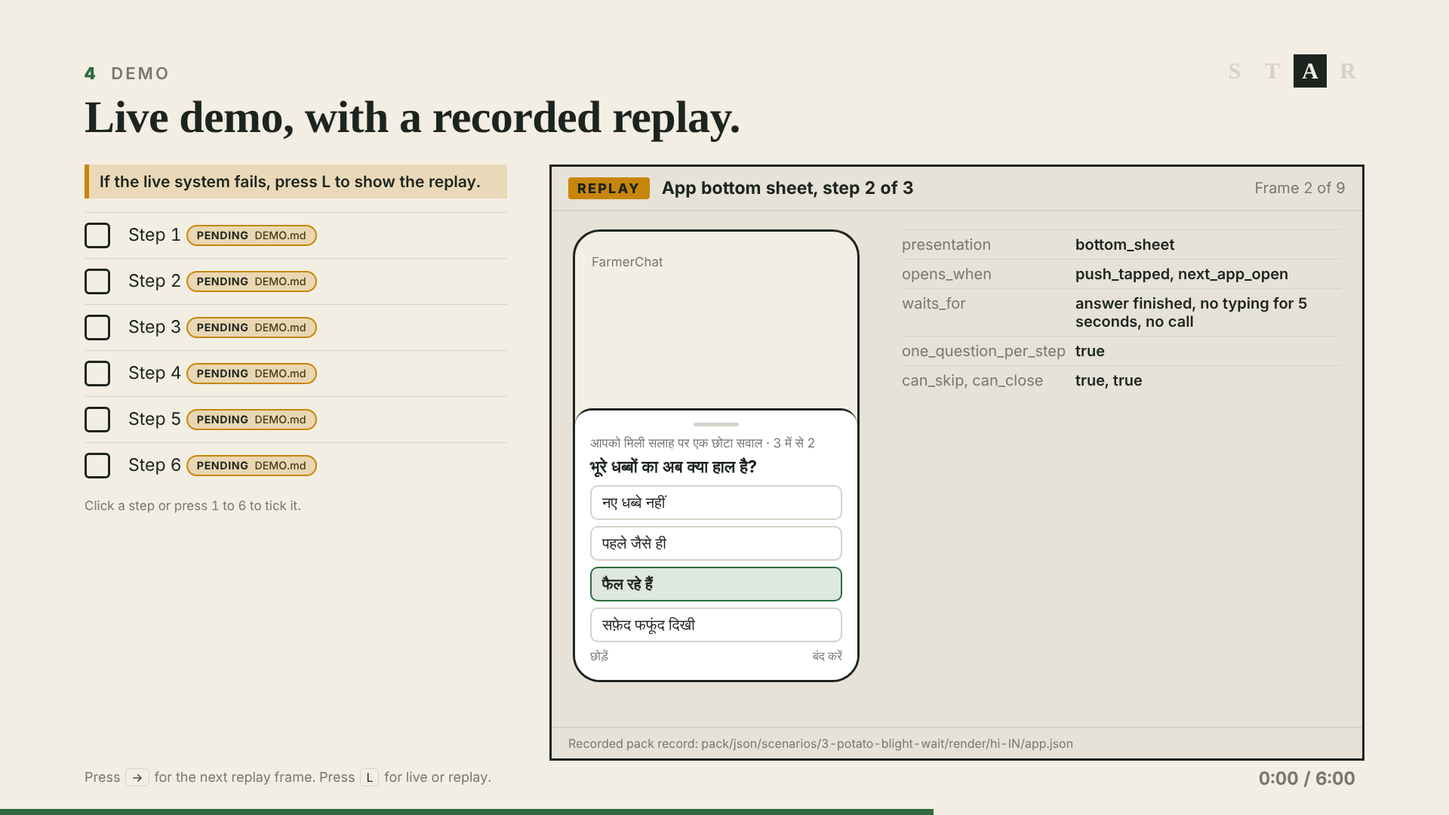
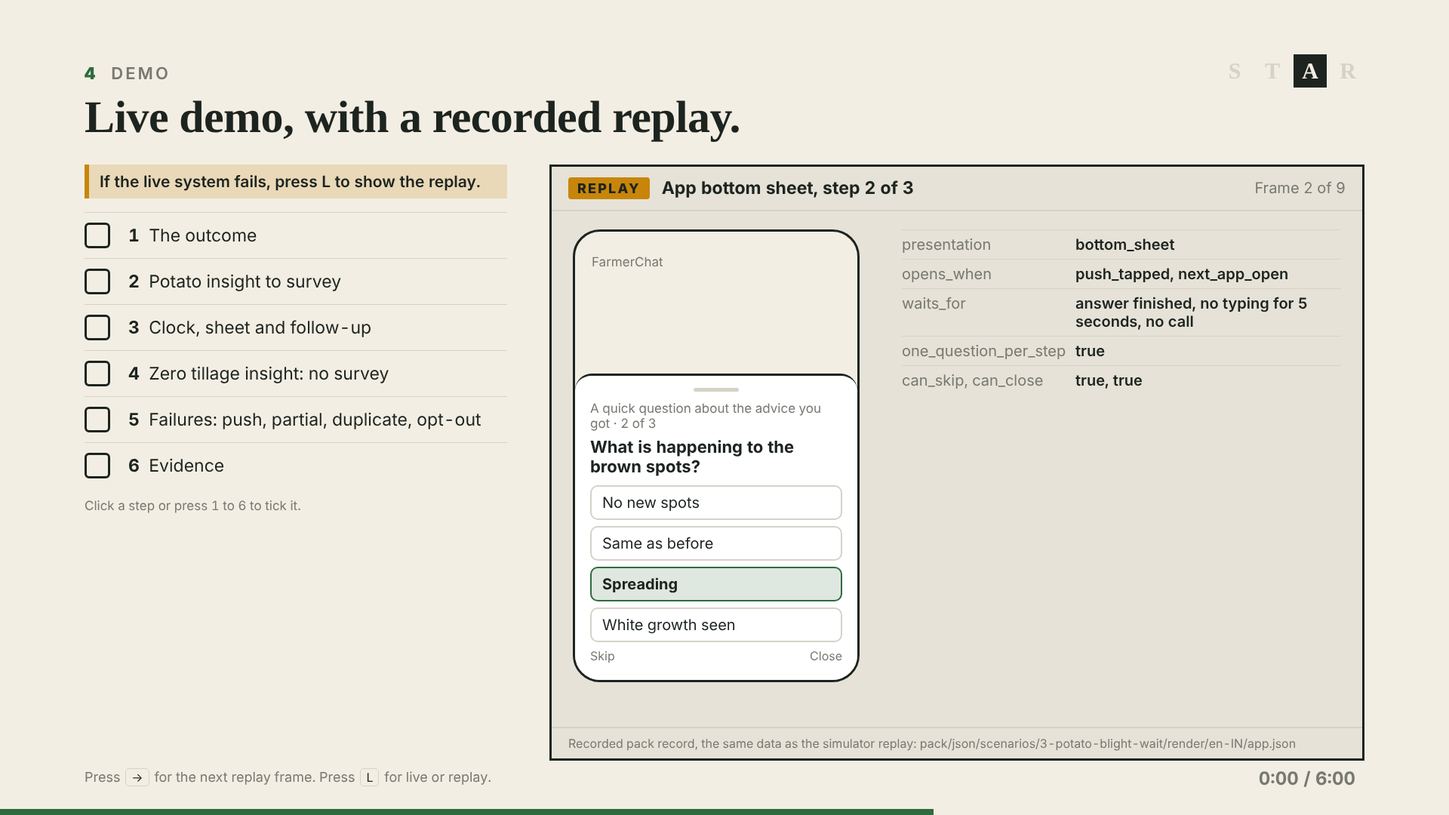
Refresh pitch deck with evidence report, review, demo script and infra
Fill the slide 5 tiles from evidence/REPORT.md, the demo checklist from
DEMO.md, the simulator URL and CloudFront from infra/INFRA.md, and the
review count from REVIEW.md. Drop AWS Budgets, which was not deployed.

Claude-Session: https://claude.ai/code/session_01Cnzru5pCMBT4YPL5fzyRAG

diff --git a/deck/index.html b/deck/index.html
@@ -225,7 +225,7 @@ table.why th{border-top:1.5px solid var(--faint)}
 </section>
 
 <!-- ============ SLIDE 2 ============ -->
-<section class="slide" data-n="2" data-steps="13" data-star="A">
+<section class="slide" data-n="2" data-steps="12" data-star="A">
   <div class="kicker"><b>2</b> &nbsp;Solution architecture</div>
   <h1 style="font-size:60px">One request path. One data path.</h1>
   <div class="s2-grid">
@@ -233,7 +233,7 @@ table.why th{border-top:1.5px solid var(--faint)}
       <ul class="legend">
         <li><svg width="70" height="14"><line x1="0" y1="7" x2="70" y2="7" stroke="#2E6B3F" stroke-width="4"/></svg>Request path</li>
         <li><svg width="70" height="14"><line x1="0" y1="7" x2="70" y2="7" stroke="#2F5E86" stroke-width="4" stroke-dasharray="10 6"/></svg>Data path</li>
-        <li><svg width="70" height="24"><rect x="2" y="2" width="66" height="20" fill="none" stroke="#C7860A" stroke-width="2.5" stroke-dasharray="8 6"/></svg>Not confirmed yet</li>
+        <li><svg width="70" height="24"><rect x="2" y="2" width="66" height="20" fill="none" stroke="#1D2420" stroke-width="2" stroke-dasharray="4 5"/></svg>Outside the AWS application</li>
       </ul>
       <div class="svcpanel" id="svcpanel"></div>
     </div>
@@ -250,7 +250,7 @@ table.why th{border-top:1.5px solid var(--faint)}
       <!-- compute group -->
       <rect x="470" y="196" width="280" height="264" fill="none" stroke="#1D2420" stroke-width="1.5" stroke-dasharray="2 5"/>
       <text x="482" y="218" style="font-size:15px;font-weight:700;letter-spacing:.1em;fill:#6e6f68">APPLICATION CODE: mel</text>
-      <text x="206" y="636" style="font-size:15px;font-weight:700;letter-spacing:.1em;fill:#6e6f68">OBSERVE AND CONTROL COST</text>
+      <text x="206" y="636" style="font-size:15px;font-weight:700;letter-spacing:.1em;fill:#6e6f68">OBSERVE</text>
 
       <!-- request path arrows -->
       <path data-s="0 1" class="req" d="M85 240V102H218" marker-end="url(#mreq)"/>
@@ -258,8 +258,8 @@ table.why th{border-top:1.5px solid var(--faint)}
       <path data-s="2 3" class="req" d="M420 278H488" marker-end="url(#mreq)"/>
       <path data-s="3 4 5" class="req" d="M590 196V142" marker-end="url(#mreq)"/>
       <path data-s="3 4 7" class="req" d="M750 420H766V560H1038" marker-end="url(#mreq)"/>
-      <path data-s="0 11" class="req pend" d="M85 316V558H218" marker-end="url(#mpen)"/>
-      <path data-s="11 10" class="req pend" d="M420 558H478" marker-end="url(#mpen)"/>
+      <path data-s="0 11" class="req" d="M85 316V558H218" marker-end="url(#mreq)"/>
+      <path data-s="11 10" class="req" d="M420 558H478" marker-end="url(#mreq)"/>
       <!-- data path arrows -->
       <path data-s="3 4 8" class="dat" d="M750 274H788" marker-end="url(#mdat)"/>
       <path data-s="3 4 9" class="dat" d="M750 394H788" marker-end="url(#mdat)"/>
@@ -279,9 +279,8 @@ table.why th{border-top:1.5px solid var(--faint)}
       <g class="svc" data-i="8"><rect class="box" x="790" y="236" width="210" height="76" rx="6"/><text class="nm" x="804" y="268">DynamoDB</text><text class="sb" x="804" y="294">table mel-ledger</text></g>
       <g class="svc" data-i="9"><rect class="box" x="790" y="356" width="210" height="76" rx="6"/><text class="nm" x="804" y="388">SQS</text><text class="sb" x="804" y="414">follow-up queue</text><rect class="box" x="815" y="452" width="150" height="48" rx="6"/><text class="sb" x="830" y="482" style="fill:#1D2420;font-weight:600">DLQ</text></g>
       <g class="svc" data-i="10"><rect class="box" x="480" y="520" width="220" height="76" rx="6"/><text class="nm" x="494" y="552">S3</text><text class="sb" x="494" y="578">simulator, artifacts</text></g>
-      <g class="svc pending" data-i="11"><rect class="box" x="220" y="520" width="200" height="76" rx="6"/><text class="nm" x="234" y="552">CloudFront</text><text class="sb" x="234" y="578" style="fill:#8a5d06;font-weight:700">PENDING</text></g>
-      <g class="svc" data-i="12"><rect class="box" x="480" y="650" width="220" height="76" rx="6"/><text class="nm" x="494" y="682">CloudWatch</text><text class="sb" x="494" y="708">dashboard, alarms</text></g>
-      <g class="svc" data-i="13"><rect class="box" x="790" y="650" width="210" height="76" rx="6"/><text class="nm" x="804" y="682">AWS Budgets</text><text class="sb" x="804" y="708">monthly budget</text></g>
+      <g class="svc" data-i="11"><rect class="box" x="220" y="520" width="200" height="76" rx="6"/><text class="nm" x="234" y="552">CloudFront</text><text class="sb" x="234" y="578">simulator, HTTPS</text></g>
+      <g class="svc" data-i="12"><rect class="box" x="480" y="650" width="220" height="76" rx="6"/><text class="nm" x="494" y="682">CloudWatch</text><text class="sb" x="494" y="708">dashboard, 2 alarms</text></g>
     </svg>
   </div>
   <div class="hint">Press <kbd>→</kbd> to show each service in turn.</div>
@@ -293,7 +292,7 @@ table.why th{border-top:1.5px solid var(--faint)}
   <h1 style="font-size:60px">One insight, 13 steps, 2 model calls.</h1>
   <div class="track" id="track"><div id="token"></div></div>
   <div class="detail" id="detail"></div>
-  <div class="foot"><b>Timing profiles.</b> golden_v1 is the default and follows the golden send windows. rules_v1 applies rules.json window_rules exactly.</div>
+  <div class="foot"><b>Timing profiles.</b> golden_v1 is the default and matches 95 of 95 golden send windows. rules_v1 applies rules.json window_rules exactly.</div>
   <div class="hint">Press <kbd>→</kbd> to move the insight one step.</div>
 </section>
 
@@ -320,27 +319,27 @@ table.why th{border-top:1.5px solid var(--faint)}
     <div class="tile">
       <div class="v">150<small> / 150</small></div>
       <div class="l">Golden-set decisions that match, with 0 model calls</div>
-      <div class="s">Wave 0 rule check in CONTRACTS.md. <span class="chip">pending <i>evidence/REPORT.md</i></span></div>
+      <div class="s">Rule id, reason code and survey flag all match. Source: evidence/REPORT.md.</div>
     </div>
     <div class="tile">
-      <div class="v"><span class="chip" style="font-size:30px">pending</span><small> / 183</small></div>
+      <div class="v">183<small> / 183</small></div>
       <div class="l">Outcome fixtures that pass</div>
-      <div class="s">The total of 183 comes from pack/README.txt. <span class="chip">pending <i>evidence/REPORT.md</i></span></div>
+      <div class="s">Each pack fixture passes through the outcome state machine. Source: evidence/REPORT.md.</div>
     </div>
     <div class="tile">
-      <div class="v">$0.000210</div>
+      <div class="v">$0.000818</div>
       <div class="l">Cost for each accepted survey, <span style="white-space:nowrap">gpt-6-luna</span></div>
-      <div class="s">Generation only, in the model eval. The list price is not verified. <span class="chip">pending <i>evidence/REPORT.md</i></span></div>
+      <div class="s">Failed calls are counted. Without them, the cost is $0.000568. 5 of 5 surveys passed. Prices are not verified.</div>
     </div>
     <div class="tile">
-      <div class="v"><span class="chip" style="font-size:30px">pending</span></div>
-      <div class="l">Latency p50 and p95, end to end</div>
-      <div class="s">The model call alone has a p50 of 1146 ms in the eval. <span class="chip">pending <i>evidence/REPORT.md</i></span></div>
+      <div class="v">2,577<small> / 4,105 ms</small></div>
+      <div class="l">Latency p50 and p95 for each model call</div>
+      <div class="s">Measured on Bedrock in us-west-2 over 7 model calls. Source: evidence/REPORT.md.</div>
     </div>
   </div>
   <table class="why">
-    <tr><th>Cost</th><td>Decisions, timing and outcomes are deterministic code. The eval chose <span style="white-space:nowrap">gpt-6-luna</span>: 15 of 15 passed at the lowest priced cost. Prompt caching <span class="chip">pending <i>not in listed files</i></span></td></tr>
-    <tr><th>Security</th><td>Farmer identity comes from the JWT only. Each component has its own least-privilege IAM role. The Jev key stays in Secrets Manager. A Jev failure holds the survey for review. Adversarial review <span class="chip">pending <i>REVIEW.md pass count</i></span></td></tr>
+    <tr><th>Cost</th><td>Decisions, timing and outcomes are deterministic code. The eval chose <span style="white-space:nowrap">gpt-6-luna</span>: 15 of 15 passed at the lowest priced cost. Prompt caching <span class="chip">pending <i>no evidence in REPORT.md</i></span></td></tr>
+    <tr><th>Security</th><td>Farmer identity comes from the JWT only. IAM policies list explicit actions, with no wildcard actions. The Jev key stays in Secrets Manager. A Jev failure holds the survey for review. The adversarial review checked 15 items, and 12 are closed with PR #23.</td></tr>
     <tr><th>Simplicity</th><td>One Python package, mel. One DynamoDB table. One static simulator page. One deploy script.</td></tr>
   </table>
   <p class="close">Every piece of advice gets a <b>measured outcome</b>. Farmers with bad outcomes <b>get help</b>.</p>
@@ -373,9 +372,9 @@ function chip(src){return '<span class="chip">pending <i>'+esc(src)+'</i></span>
 
 /* ---------- slide 2 data ---------- */
 var SVC=[
- [0,"Overview","The diagram shows the services in infra/README.md. infra/INFRA.md is not on main yet."],
+ [0,"Overview","The diagram shows the deployed services in infra/INFRA.md and the external Jev service."],
  [1,"Cognito","Cognito signs in the farmer and issues a JWT that carries farmer_id and org_id."],
- [2,"API Gateway","API Gateway checks the JWT, validates each request and throttles at rate 1, burst 10."],
+ [2,"API Gateway","The HTTP API checks the JWT and throttles at rate 1, burst 10. The Lambda validates the payload."],
  [3,"Lambda","The Lambda function mel-api runs the agent code for each API request."],
  [4,"AgentCore Runtime","AgentCore Runtime runs the agent as a container from the ECR repository mel-agent."],
  [5,"Bedrock","Bedrock runs gpt-6-luna through a global cross-region inference profile, called from us-west-2."],
@@ -384,9 +383,8 @@ var SVC=[
  [8,"DynamoDB","DynamoDB holds the ledger in one table, scoped by org_id and farmer_id."],
  [9,"SQS with DLQ","SQS holds the follow-up queue. The dead-letter queue keeps messages that fail."],
  [10,"S3","S3 holds the simulator page and the artifacts, with public access blocked."],
- [11,"CloudFront","CloudFront for the simulator is not confirmed. "+chip("infra/INFRA.md")],
- [12,"CloudWatch","CloudWatch shows the MelAgent metrics on a dashboard and raises alarms."],
- [13,"AWS Budgets","AWS Budgets sets a monthly cost budget."]
+ [11,"CloudFront","CloudFront serves the simulator page over HTTPS from the private S3 bucket."],
+ [12,"CloudWatch","CloudWatch shows the MelAgent metrics on the mel-agent dashboard. 2 alarms watch the DLQ and the model call rate."]
 ];
 var arch=document.getElementById("arch");
 function renderS2(step){
@@ -397,7 +395,7 @@ function renderS2(step){
   arch.classList.toggle("focus",step>0);
   var d=SVC[step];
   document.getElementById("svcpanel").innerHTML=
-    '<div class="n">'+(step?("Service "+step+" of 13"):"13 services")+'</div><h2>'+d[1]+'</h2><p>'+d[2]+'</p>';
+    '<div class="n">'+(step?("Service "+step+" of 12"):"12 services")+'</div><h2>'+d[1]+'</h2><p>'+d[2]+'</p>';
 }
 
 /* ---------- slide 3 data ---------- */
@@ -407,7 +405,7 @@ var STEPS=[
    ["R1|junk_insight","R2|critical_needs_human_call","R3|nothing_to_verify","R4|waiting_for_details","R5|no_check_needed","R6|window_after_season","R7|crop_already_harvested","R8|survey"]],
  ["Timing profile",0,"The timing profile sets the send window from the verification timing.",["|golden_v1 is the default profile.","|rules_v1 applies rules.json window_rules."]],
  ["Handoff",0,"The handoff builds the schedule record for the scheduler.",["|Channel order and wait hours","|Frequency cap","|Priority","|Expiry time"]],
- ["Generation on Bedrock",1,"Bedrock writes 1 to 3 tap questions in the farmer's language. The limit is 600 output tokens.",["|Model: gpt-6-luna","|Insight text goes in the user turn, never in the system prompt."]],
+ ["Generation on Bedrock",1,"Bedrock writes 1 to 3 tap questions in the farmer's language. max_tokens is 600 in models.yaml.",["|Model: gpt-6-luna","|The eval run used max_tokens 900.","|Insight text goes in the user turn, never in the system prompt."]],
  ["Validation and invariants",0,"Code validates the survey against the pack schema and the invariants. Our validator sets schema_valid.",["|1 to 3 items","|Unique item_id","|2 to 10 options","|Labels of 20 code points or fewer","|Scales of 10 steps or fewer"]],
  ["5 Jev checks",2,"Jev answers 5 typed questions about the final survey. A Jev failure holds the survey for review.",["|matches_advice","|gives_new_advice","|asks_personal_info","|inappropriate_content","|language_matches_tag"]],
  ["Ledger",0,"The ledger stores the survey. Every read and write is scoped by org_id and farmer_id.",null],
@@ -455,11 +453,11 @@ function renderS3(step){
 }
 
 /* ---------- slide 4 data ---------- */
-var CHECKS=[1,2,3,4,5,6];
+var CHECKS=[[1,"The outcome"],[2,"Potato insight to survey"],[3,"Clock, sheet and follow-up"],[4,"Zero tillage insight: no survey"],[5,"Failures: push, partial, duplicate, opt-out"],[6,"Evidence"]];
 var checksEl=document.getElementById("checks"), ticked={};
-CHECKS.forEach(function(n){
-  var li=document.createElement("li");li.setAttribute("data-k",n);
-  li.innerHTML='<span class="bx"></span><span class="lbl">Step '+n+' '+chip("DEMO.md")+'</span>';
+CHECKS.forEach(function(c){
+  var n=c[0],li=document.createElement("li");li.setAttribute("data-k",n);
+  li.innerHTML='<span class="bx"></span><span class="lbl"><b>'+n+'</b>&nbsp; '+esc(c[1])+'</span>';
   li.addEventListener("click",function(e){e.stopPropagation();toggleCheck(n);});
   checksEl.appendChild(li);
 });
@@ -470,17 +468,18 @@ var O="pack/json/outcomes/app/survey-single-select/";
 function rec(rows){return '<div class="rec">'+rows.map(function(r){
   return '<div'+(r[2]?' class="'+r[2]+'"':'')+'><span>'+esc(r[0])+'</span><span>'+esc(r[1])+'</span></div>';}).join("")+'</div>';}
 var FRAMES=[
- {t:"Potato survey in Hindi",src:P+"survey.hi-IN.json and survey.en-IN.json",one:true,html:
+ {t:"Potato survey in English",src:P+"survey.en-IN.json and survey.hi-IN.json",one:true,html:
   '<div class="sq">'+
-  '<div class="item"><div class="hi">क्या आपने पिछले 3 दिनों में आलू के पत्ते देखे?</div><div class="en">Did you check the potato leaves in the last 3 days?</div><div class="opts"><span>हाँ</span><span>नहीं</span></div></div>'+
-  '<div class="item"><div class="hi">भूरे धब्बों का अब क्या हाल है?</div><div class="en">What is happening to the brown spots?</div><div class="opts"><span>नए धब्बे नहीं</span><span>पहले जैसे ही</span><span>फैल रहे हैं</span><span>सफ़ेद फफूंद दिखी</span></div></div>'+
-  '<div class="item"><div class="hi">सलाह कितनी काम की रही? 1 मतलब बिल्कुल नहीं, 5 मतलब बहुत काम की।</div><div class="en">How useful was the advice? 1 means not useful, 5 means very useful.</div><div class="opts"><span>1</span><span>2</span><span>3</span><span>4</span><span>5</span></div></div>'+
+  '<div class="item"><div class="hi">Did you check the potato leaves in the last 3 days?</div><div class="en">क्या आपने पिछले 3 दिनों में आलू के पत्ते देखे?</div><div class="opts"><span>Yes</span><span>No</span></div></div>'+
+  '<div class="item"><div class="hi">What is happening to the brown spots?</div><div class="en">भूरे धब्बों का अब क्या हाल है?</div><div class="opts"><span>No new spots</span><span>Same as before</span><span>Spreading</span><span>White growth seen</span></div></div>'+
+  '<div class="item"><div class="hi">How useful was the advice? 1 means not useful, 5 means very useful.</div><div class="en">सलाह कितनी काम की रही? 1 मतलब बिल्कुल नहीं, 5 मतलब बहुत काम की।</div><div class="opts"><span>1</span><span>2</span><span>3</span><span>4</span><span>5</span></div></div>'+
+  '<p class="src" style="margin-top:10px">The agent builds en-IN only. Hindi is not built yet. The grey lines show the pack hi-IN text.</p>'+
   '</div>'},
- {t:"App bottom sheet, step 2 of 3",src:P+"render/hi-IN/app.json",html:
+ {t:"App bottom sheet, step 2 of 3",src:P+"render/en-IN/app.json",html:
   '<div class="phone"><div class="chat">FarmerChat</div><div class="sheet"><div class="grab"></div>'+
-  '<div class="t">आपको मिली सलाह पर एक छोटा सवाल · 3 में से 2</div><div class="q">भूरे धब्बों का अब क्या हाल है?</div>'+
-  '<span class="opt">नए धब्बे नहीं</span><span class="opt">पहले जैसे ही</span><span class="opt tap">फैल रहे हैं</span><span class="opt">सफ़ेद फफूंद दिखी</span>'+
-  '<div class="row"><span>छोड़ें</span><span>बंद करें</span></div></div></div>'+
+  '<div class="t">A quick question about the advice you got · 2 of 3</div><div class="q">What is happening to the brown spots?</div>'+
+  '<span class="opt">No new spots</span><span class="opt">Same as before</span><span class="opt tap">Spreading</span><span class="opt">White growth seen</span>'+
+  '<div class="row"><span>Skip</span><span>Close</span></div></div></div>'+
   rec([["presentation","bottom_sheet"],["opens_when","push_tapped, next_app_open"],["waits_for","answer finished, no typing for 5 seconds, no call"],["one_question_per_step","true"],["can_skip, can_close","true, true"]])},
  {t:"Answer: spreading",src:P+"responses/whatsapp.json",one:true,html:
   rec([["survey_id","S-21310"],["channel","whatsapp"],["answers","q1 yes · q2 spreading · q3 2"],["status","negative_outcome","bad"],["counts_toward_cap","true"],["needs_follow_up","true","hot"],["follow_up_reasons","crop_or_animal_damaged","hot"]])},
@@ -506,12 +505,12 @@ function renderS4(step){
   frame.classList.toggle("live",state.live);
   if(state.live){
     frame.innerHTML='<div class="fhead"><span class="mode liveon">LIVE</span><span class="ttl">Simulator</span><span class="cnt">Press L for the replay</span></div>'+
-      '<div class="livebox"><div>Simulator URL</div>'+chip("infra/INFRA.md")+'<div style="font-size:20px">Open the simulator in a browser tab next to this deck.</div></div>';
+      '<div class="livebox"><div>Simulator URL</div><div style="font-size:34px;font-weight:700;color:var(--ink)">https://d3eb8n1ufruyva.cloudfront.net</div><div style="font-size:20px">Open the simulator in a browser tab next to this deck.</div><div style="font-size:20px">For the simulator replay, add ?replay=1 to the URL.</div></div>';
     return;
   }
   var f=FRAMES[step];
   frame.innerHTML='<div class="fhead"><span class="mode replay">REPLAY</span><span class="ttl">'+esc(f.t)+'</span><span class="cnt">Frame '+(step+1)+' of '+FRAMES.length+'</span></div>'+
-    '<div class="fbody'+(f.one?" one":"")+'">'+f.html+'</div><div class="fsrc">Recorded pack record: '+esc(f.src)+'</div>';
+    '<div class="fbody'+(f.one?" one":"")+'">'+f.html+'</div><div class="fsrc">Recorded pack record, the same data as the simulator replay: '+esc(f.src)+'</div>';
 }
 
 /* ---------- notes ---------- */
@@ -531,14 +530,15 @@ var NOTES=[
   "Green arrows show the request path. Blue arrows show the data path.",
   "Cognito signs in the farmer and issues a JWT.",
   "API Gateway checks the JWT and sends the request to the Lambda function.",
+  "The Lambda function validates the payload, because an HTTP API has no request validator.",
   "AgentCore Runtime runs the same agent code as a container.",
   "Bedrock runs gpt-6-luna through a cross-region inference profile.",
   "The Jev key stays in Secrets Manager. Jev is outside AWS.",
   "DynamoDB holds the ledger in one table.",
   "SQS holds the follow-up queue. A dead-letter queue keeps failed messages.",
   "S3 holds the simulator page and the artifacts.",
-  "CloudFront is pending. Do not talk about it until infra/INFRA.md confirms it.",
-  "CloudWatch shows the dashboard and alarms. AWS Budgets sets a monthly budget."]],
+  "CloudFront serves the simulator page from the private S3 bucket.",
+  "CloudWatch shows the dashboard. 2 alarms watch the DLQ and the model call rate."]],
  ["Slide 3. Action: application flow. Target 2:00 to 3:10. Press the right arrow for each step.",[
   "Follow one insight through the agent.",
   "Code checks the insight against the pack schema.",
@@ -554,8 +554,9 @@ var NOTES=[
  ["Slide 4. Action shown live. Target 3:10 to 5:10.",[
   "If the live system fails, press L to show the replay.",
   "Follow the 6 steps in DEMO.md. Tick each step on the slide when you finish it.",
+  "The live simulator is at d3eb8n1ufruyva.cloudfront.net.",
   "The replay uses recorded pack records.",
-  "First, the potato survey in Hindi. The farmer gets 3 questions.",
+  "First, the potato survey in English. Hindi is not built yet. The farmer gets 3 questions.",
   "Next, the bottom sheet in the app. It shows one question for each step.",
   "The farmer taps Spreading. The status becomes negative_outcome.",
   "The agent creates a follow-up item with the reason crop_or_animal_damaged.",
@@ -567,9 +568,11 @@ var NOTES=[
  ["Slide 5. Result. Target 5:10 to 6:00.",[
   "Do not read a pending chip as a number. Say that the number is pending.",
   "The rules match 150 of 150 golden decisions with 0 model calls.",
-  "Generation costs $0.000210 for each accepted survey in the eval. The list price is not verified.",
+  "183 of 183 outcome fixtures pass.",
+  "Each accepted survey costs $0.000818, with failed calls counted. The prices are not verified.",
+  "Each model call takes 2,577 ms at p50 and 4,105 ms at p95.",
   "Cost stays low because decisions are code. The eval chose the model.",
-  "Security comes from JWT identity, least-privilege IAM, secrets off clients and the Jev hold.",
+  "Security comes from JWT identity, explicit IAM actions, secrets off clients and the Jev hold.",
   "Simplicity comes from one package, one table, one static page and one deploy script.",
   "Every piece of advice gets a measured outcome. Farmers with bad outcomes get help."]]
 ];

diff --git a/deck/NOTES.md b/deck/NOTES.md
@@ -36,14 +36,15 @@ Press the right arrow for each service.
 - Green arrows show the request path. Blue arrows show the data path.
 - Cognito signs in the farmer and issues a JWT.
 - API Gateway checks the JWT and sends the request to the Lambda function.
+- The Lambda function validates the payload, because an HTTP API has no request validator.
 - AgentCore Runtime runs the same agent code as a container.
 - Bedrock runs gpt-6-luna through a cross-region inference profile.
 - The Jev key stays in Secrets Manager. Jev is outside AWS.
 - DynamoDB holds the ledger in one table.
 - SQS holds the follow-up queue. A dead-letter queue keeps failed messages.
 - S3 holds the simulator page and the artifacts.
-- CloudFront is pending. Do not talk about it until infra/INFRA.md confirms it.
-- CloudWatch shows the dashboard and alarms. AWS Budgets sets a monthly budget.
+- CloudFront serves the simulator page from the private S3 bucket.
+- CloudWatch shows the dashboard. 2 alarms watch the DLQ and the model call rate.
 
 ### Slide 3. Action: application flow. 2:00 to 3:10
 
@@ -65,8 +66,9 @@ Press the right arrow for each step.
 
 - If the live system fails, press L to show the replay.
 - Follow the 6 steps in DEMO.md. Tick each step on the slide when you finish it.
+- The live simulator is at d3eb8n1ufruyva.cloudfront.net.
 - The replay uses recorded pack records.
-- First, the potato survey in Hindi. The farmer gets 3 questions.
+- First, the potato survey in English. Hindi is not built yet. The farmer gets 3 questions.
 - Next, the bottom sheet in the app. It shows one question for each step.
 - The farmer taps Spreading. The status becomes negative_outcome.
 - The agent creates a follow-up item with the reason crop_or_animal_damaged.
@@ -80,13 +82,18 @@ Press the right arrow for each step.
 
 - Do not read a pending chip as a number. Say that the number is pending.
 - The rules match 150 of 150 golden decisions with 0 model calls.
-- Generation costs $0.000210 for each accepted survey in the eval. The list price is not verified.
+- 183 of 183 outcome fixtures pass.
+- Each accepted survey costs $0.000818, with failed calls counted. The prices are not verified.
+- Each model call takes 2,577 ms at p50 and 4,105 ms at p95.
 - Cost stays low because decisions are code. The eval chose the model.
-- Security comes from JWT identity, least-privilege IAM, secrets off clients and the Jev hold.
+- Security comes from JWT identity, explicit IAM actions, secrets off clients and the Jev hold.
 - Simplicity comes from one package, one table, one static page and one deploy script.
 - Every piece of advice gets a measured outcome. Farmers with bad outcomes get help.
 
+
 ## Every number and its source
+
+Sources read on 2026-11-05: main at 5e0b278, evidence/REPORT.md from PR #25, REVIEW.md from PR #21, DEMO.md from PR #20, KNOWN-ISSUES.md from PR #24, infra/INFRA.md on main.
 
 | Slide | Number | Meaning | Source file |
 |---|---|---|---|
@@ -95,57 +102,55 @@ Press the right arrow for each step.
 | 1 | 150 | golden cases | pack/README.txt |
 | 1 | 183 | outcome records | pack/README.txt |
 | 1, 3 | 1 to 3 | tap questions in a survey | pack/README.txt; models/results/model_select.md |
-| 2 | 13 | services drawn | infra/README.md (6 stacks), CLAUDE.md (Bedrock, Jev) |
-| 2 | rate 1, burst 10 | API Gateway stage throttle | CLAUDE.md |
-| 2, 3, 5 | 5 | Jev checks | mel/settings.py (JEV_THRESHOLD_* x5); CONTRACTS.md (`JEV_THRESHOLD_<CHECK>` x5) |
+| 2 | 12 | services drawn (11 AWS, plus Jev) | infra/INFRA.md resource inventory; CLAUDE.md (Jev) |
+| 2 | rate 1, burst 10 | API Gateway stage throttle | CLAUDE.md; evidence/REPORT.md section 7 |
+| 2 | 2 | CloudWatch alarms | evidence/REPORT.md section 6 (mel-followup-dlq-nonempty, mel-model-calls-over-60) |
+| 2, 3, 5 | 5 | Jev checks | mel/settings.py (JEV_THRESHOLD_* x5); CONTRACTS.md |
 | 3 | 13 | flow steps | the task brief for this deck |
 | 3 | 8, R1 to R8 | decision rules and reason codes | CONTRACTS.md, Rules table |
 | 3 | 2 | model calls (generation, Jev) | CLAUDE.md, Fixed decisions |
 | 3 | 11 | code-only steps (13 minus 2) | derived from the two rows above |
-| 3 | 600 | max output tokens | CLAUDE.md; models/models.yaml `max_tokens` |
+| 3 | 600 | max_tokens in config | models/models.yaml |
+| 3 | 900 | max_tokens used in the eval run | evidence/REPORT.md section 4 |
+| 3 | 95 of 95 | golden send windows that golden_v1 matches | evidence/REPORT.md section 2 |
 | 3 | 1 to 3, 2 to 10, 20, 10 | survey invariants | models/results/model_select.md |
 | 3 | I-005330, 3 days | example insight | pack/json/scenarios/3-potato-blight-wait/insight.json |
-| 4 | 6 | demo steps | the task brief (DEMO.md is missing) |
+| 4 | 6 | demo steps and their names | DEMO.md (PR #20) |
+| 4 | d3eb8n1ufruyva.cloudfront.net | simulator URL | infra/INFRA.md, Endpoints |
 | 4 | 9 | replay frames | this deck |
 | 4 | S-21310, F-000245, q3 = 2 | potato survey and answer | pack/json/scenarios/3-potato-blight-wait/responses/whatsapp.json |
-| 4 | 3 in 3 steps, 5 seconds | bottom sheet steps and typing wait | pack/json/scenarios/3-potato-blight-wait/render/hi-IN/app.json |
+| 4 | 2 of 3, 5 seconds | bottom sheet step and typing wait | pack/json/scenarios/3-potato-blight-wait/render/en-IN/app.json |
 | 4 | I-004101, R3 | no-survey insight and rule | pack/json/scenarios/6-zero-tillage-info-no-survey/; proposals/CONFLICTS.md section 2 |
 | 4 | S-20931, HTTP 200 | failure records | pack/json/outcomes/app/survey-single-select/*.json |
-| 5 | 150 / 150 | golden decisions that match (wave 0 rule check) | CONTRACTS.md, Rules heading |
-| 5 | 183 | outcome fixture total | pack/README.txt |
-| 5 | $0.000210 | cost per accepted survey, generation only, eval | models/results/model_select.md; models/models.yaml |
-| 5 | 15 of 15 | eval pass count for gpt-6-luna | models/results/model_select.md |
-| 5 | 1146 ms | model call p50 in the eval | models/results/model_select.md |
+| 5 | 150 / 150 | golden decisions that match | evidence/REPORT.md section 1 |
+| 5 | 183 / 183 | outcome fixtures that pass | evidence/REPORT.md section 3 |
+| 5 | $0.000818 | cost per accepted survey, failed calls counted | evidence/REPORT.md section 4 |
+| 5 | $0.000568 | cost per accepted survey, successful calls only | evidence/REPORT.md section 4 |
+| 5 | 5 of 5 | surveys accepted (schema valid and Jev ok) | evidence/REPORT.md section 4 |
+| 5 | 2,577 ms, 4,105 ms | latency p50 and p95 per model call | evidence/REPORT.md section 4 |
+| 5 | 7 | model calls in the eval run | evidence/REPORT.md section 4 |
+| 5 | 15 of 15 | model-selection pass count for gpt-6-luna | models/results/model_select.md; evidence/REPORT.md section 5 |
+| 5 | 15, 12 | review items, and items closed with PR #23 | REVIEW.md (PR #21) |
 | footer | 6:00, 5:00 | talk length and amber point | the task brief |
 
 ## Pending chips
 
-Each chip is amber on the slide. A later run fills it from the named file.
+Each chip is amber on the slide.
 
-1. Slide 2, CloudFront node and its 2 arrows: confirm in infra/INFRA.md. infra/README.md does not list CloudFront.
-2. Slide 4, demo steps 1 to 6: text from DEMO.md.
-3. Slide 4, live mode: the simulator URL from infra/INFRA.md.
-4. Slide 5, tile 1: golden-set matches out of 150 from evidence/REPORT.md. The slide shows 150 / 150 from the wave 0 check in CONTRACTS.md until then.
-5. Slide 5, tile 2: outcome fixtures that pass out of 183, from evidence/REPORT.md.
-6. Slide 5, tile 3: cost per accepted survey from evidence/REPORT.md. The slide shows $0.000210 from the model eval until then.
-7. Slide 5, tile 4: end-to-end latency p50 and p95 from evidence/REPORT.md.
-8. Slide 5, cost row: prompt caching. No listed file says the build uses it.
-9. Slide 5, security row: adversarial review pass count from REVIEW.md.
+1. Slide 5, cost row: prompt caching. evidence/REPORT.md, KNOWN-ISSUES.md and infra/INFRA.md do not say the build uses it.
 
-## Files missing on main (read on 2026-11-05, main at 8ef904e)
+## Disagreements with the pack, the brief and the sources
 
-- infra/INFRA.md. The architecture uses infra/README.md instead.
-- evidence/REPORT.md.
-- DEMO.md.
-- REVIEW.md.
-- sim/index.html. The replay uses the pack worked examples instead.
-
-## Disagreements with the pack and the brief
-
-- The brief asks for a replay built from sim/index.html or evidence/. Neither exists on main. The replay uses recorded pack records from pack/json/scenarios and pack/json/outcomes.
-- The brief asks for the potato scenario for every replay frame. The pack has push failure, partial, duplicate and opt-out records only for the mustard survey S-20931. Those 4 frames use S-20931 and say so.
-- The pack potato records use the "spreading" answer on WhatsApp, not in the app. Frame 3 shows the WhatsApp record. Frame 2 shows the app bottom sheet with the same option tapped.
+- The brief asks to draw AWS Budgets. infra/INFRA.md says BUDGET_EMAIL was unset and the budget was skipped. The deck does not draw it.
+- The brief asks for "least-privilege IAM, one role per component". KNOWN-ISSUES.md says Lambda and AgentCore share one role (review item 10). The slide says "IAM policies list explicit actions" instead.
+- The brief asks for end-to-end p50 and p95 latency. evidence/REPORT.md gives latency per model call only. The tile says "for each model call".
+- The brief asks for cost per accepted survey. evidence/REPORT.md gives 2 values. The tile shows $0.000818 (failed calls counted) and names $0.000568. Prices are unverified in both.
 - The brief asks for "the cheapest Bedrock model chosen by eval". models/results/model_select.md has no price for claude-haiku-5-5, so "cheapest" is not proven. The slide says "the lowest priced cost".
-- The gpt-6-luna price is marked unverified in models/models.yaml. The slide says so.
+- CLAUDE.md and models/models.yaml set max_tokens 600. The eval run used 900 (evidence/REPORT.md section 4). Slide 3 shows both.
+- The adversarial review count is from REVIEW.md: 12 of 15 items are closed with PR #23. PR #23 is not merged at the time of writing. Update the slide when the integration PR for items 4, 5 and 10 merges.
+- DEMO.md times its 6 steps as a full 6:00 talk. This deck gives the demo 2:00 (3:10 to 5:10). The presenter must choose which steps to run live.
+- DEMO.md and KNOWN-ISSUES.md say Hindi is not built. The replay shows the en-IN survey and the en-IN app sheet. The pack hi-IN text is shown in grey on frame 1 only.
+- The replay uses pack records, the same data that the simulator replay (sim/index.html, ?replay=1) builds from. The pack has push failure, partial, duplicate and opt-out records only for the mustard survey S-20931. Those 4 frames say so.
+- The pack potato records use the "spreading" answer on WhatsApp. DEMO.md step 3 uses the Web tab. Frame 3 shows the WhatsApp record.
 - The no-survey record for zero tillage uses reason_code generic_information. The golden code for R3 is nothing_to_verify (proposals/CONFLICTS.md section 1). The slide shows both.
-- CONTRACTS.md says the rules match 150/150 with R7 `>=`. evidence/REPORT.md must confirm this for the deployed build.
+- REVIEW.md item 4 says a duplicate is found only on the same response_key. The duplicate frame shows the pack record, not the current code behaviour.
